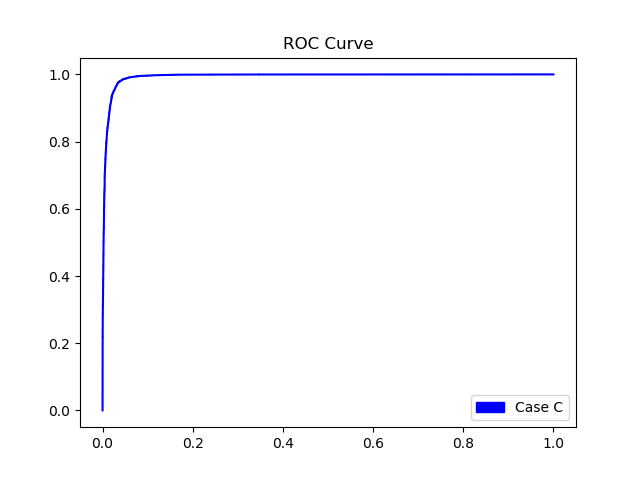
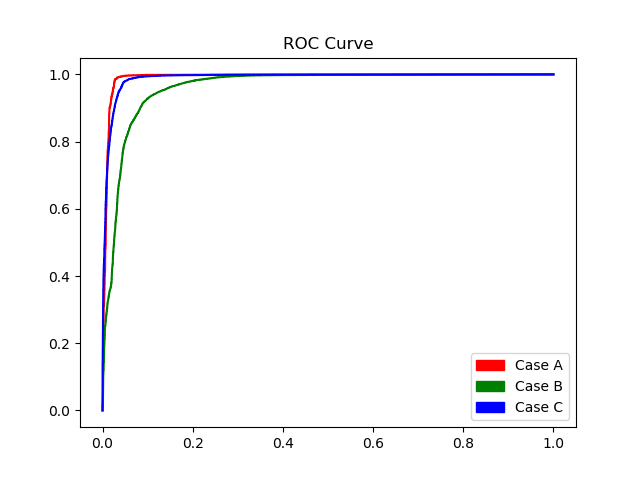
Code fix.

Changed region(s): [[0.1562, 0.125, 0.4688, 0.75], [0.7188, 0.7188, 0.9062, 0.8438]]

diff --git a/MNIST project/train_models.py b/MNIST project/train_models.py
@@ -73,6 +73,7 @@ def contrastive_loss(y_true, y_pred):
     return K.mean(y_true * sqaure_pred + (1 - y_true) * margin_square)
 
 def transform_image(image_1, image_2):
+    
     transformations = {}
     # Calculating transformation
     if np.random.uniform(low=0, high=1) < 0.5:
@@ -93,7 +94,7 @@ def transform_image(image_1, image_2):
     if np.random.uniform(low=0, high=1) < 0.5:
         shear = np.random.uniform(low=shear_range[0], high=shear_range[1])
         transformations['shear'] = shear
-    
+        
     image_1 = np.expand_dims(image_1, axis=-1)
     image_2 = np.expand_dims(image_2, axis=-1)
     image_1 = image_transformer.apply_transform(image_1, transformations)
@@ -150,6 +151,28 @@ def create_base_network(input_shape):
 
     return Model(input, x)
 
+def creatе_model():
+    # Network definition
+    base_network = create_base_network(input_shape)
+
+    input_a = Input(shape=input_shape)
+    input_b = Input(shape=input_shape)
+
+    # because we re-use the same instance `base_network`,
+    # the weights of the network
+    # will be shared across the two branches
+    processed_a = base_network(input_a)
+    processed_b = base_network(input_b)
+
+    distance = Lambda(euclidean_distance,
+                    output_shape=eucl_dist_output_shape, name='lambda')([processed_a, processed_b])
+
+    model = Model([input_a, input_b], distance)
+    rms = RMSprop()
+    model.compile(loss=contrastive_loss, optimizer=rms, metrics=['accuracy'])
+
+    return model
+
 
 def compute_accuracy(y_true, y_pred):
     '''Compute classification accuracy with a fixed threshold on distances.
@@ -157,19 +180,18 @@ def compute_accuracy(y_true, y_pred):
     pred = y_pred.ravel() < 0.5
     return np.mean(pred == y_true)
 
-def get_training_data():
+def get_data():
     (x_train, y_train), (x_test, y_test) = mnist.load_data()
 
     x_train = x_train.astype('float32')
     x_test = x_test.astype('float32')
     x_train /= 255
     x_test /= 255
-
     return (x_train, y_train), (x_test, y_test)
 
-def prepare_data_for_training(transformations):
+def prepare_data_for_work(transformations):
 
-    (x_train, y_train), (x_test, y_test) = get_training_data()
+    (x_train, y_train), (x_test, y_test) = get_data()
 
     # Create training+test positive and negative pairs
     digit_indices = [np.where(y_train == i)[0] for i in range(num_classes)]
@@ -194,32 +216,12 @@ def compute_final_accuracy(model, tr_pairs, tr_y, te_pairs, te_y):
 
 def train_model(model_dir, transformations=False):
     
-    (tr_pairs, tr_y), (te_pairs, te_y) = prepare_data_for_training(transformations)
+    (tr_pairs, tr_y), (te_pairs, te_y) = prepare_data_for_work(transformations)
 
-    # Network definition
-    base_network = create_base_network(input_shape)
+    model = creatе_model()
 
-    input_a = Input(shape=input_shape)
-    input_b = Input(shape=input_shape)
-
-    # because we re-use the same instance `base_network`,
-    # the weights of the network
-    # will be shared across the two branches
-    processed_a = base_network(input_a)
-    processed_b = base_network(input_b)
-
-    distance = Lambda(euclidean_distance,
-                    output_shape=eucl_dist_output_shape, name='lambda')([processed_a, processed_b])
-
-    model = Model([input_a, input_b], distance)
-
-    # Train
-    rms = RMSprop()
-    model.compile(loss=contrastive_loss, optimizer=rms, metrics=[accuracy])
-    model.fit([tr_pairs[:, 0], tr_pairs[:, 1]], tr_y,
-            batch_size=batch_size,
-            epochs=epochs,
-            validation_data=([te_pairs[:, 0], te_pairs[:, 1]], te_y))
+    model.fit([tr_pairs[:, 0], tr_pairs[:, 1]], tr_y, batch_size=batch_size,
+            epochs=epochs, validation_data=([te_pairs[:, 0], te_pairs[:, 1]], te_y))
 
     compute_final_accuracy(model, tr_pairs, tr_y, te_pairs, te_y)
 
@@ -233,9 +235,10 @@ if __name__ == "__main__":
     if not exists(model_dir):
         makedirs(model_dir)
     
+    # Training model without transformations
     model = train_model(model_dir)
     model.save(join(model_dir, 'siamese_model.h5'))
     
-    # Training model with transformation
+    # Training model with transformations
     model = train_model(model_dir, True)
     model.save(join(model_dir, 'siamese_model_transformations.h5'))

diff --git a/MNIST project/get_plots.py b/MNIST project/get_plots.py
@@ -1,15 +1,28 @@
 import pandas as pd
 import umap
+import sklearn
 from os.path import join
 import matplotlib.pyplot as plt
 import matplotlib
 import matplotlib.patches as mpatches
+from train_models import prepare_data_for_work, create_pairs, contrastive_loss
+from tensorflow.keras.models import load_model
+import numpy as np
 
 classes_dict = {'tp':'True positives', 'fn':'False negatives', 'tn':'True negatives', 'fp':'False positives',
                 'tp_low':'True positives (low)', 'fn_low':'False negatives (low)', 'tn_low':'True negatives (low)', 'fp_low':'False positives (low)',
                 'tp_high':'True positives (high)', 'fn_high':'False negatives (high)', 'tn_high':'True negatives (high)', 'fp_high':'False positives (high)'}
 colors = ['red','green','blue','purple']
 colors_detailed = ['red','green','blue','purple', 'pink', 'orange', 'brown', 'turquoise']
+
+shape = (28, 28)
+num_classes = 10
+rotation_range = [-10, 10]
+shear_range = [-12, 12]
+scale_range = [0.9, 1.2]
+shift_range = [-2, 2]
+model_wo_tf = './test_models/siamese_model.h5'
+model_w_tf = './test_models/siamese_model_transformations.h5'
 
 def plot(directory, title):
     meta = 'metadata.tsv'
@@ -52,8 +65,58 @@ def plot(directory, title):
     plt.clf()
     plt.close()
 
+def get_roc_and_auc_curves():
+
+
+    print('Case A')
+    # First test case, training without transformations, testing without transformations
+    (_, _), (te_pairs, te_y) = prepare_data_for_work(False)
+    model = load_model(model_wo_tf, custom_objects={'contrastive_loss': contrastive_loss})
+    
+    y_pred = model.predict([te_pairs[:, 0], te_pairs[:, 1]])
+    y_pred = np.array(y_pred)
+    y_pred = np.flip(y_pred)
+    fpr, tpr, thresholds = sklearn.metrics.roc_curve(te_y, y_pred)
+    auc = sklearn.metrics.roc_auc_score(te_y.flatten(), y_pred.flatten())
+    
+    print('Case B')
+    # Second test case, training without transformations, testing with transformations
+    (_, _), (te_pairs, te_y) = prepare_data_for_work(True)
+    y_pred = model.predict([te_pairs[:, 0], te_pairs[:, 1]])
+    y_pred = np.array(y_pred)
+    y_pred = np.flip(y_pred)
+    fpr_te_tf, tpr_te_tf, _ = sklearn.metrics.roc_curve(te_y.flatten(), y_pred.flatten())
+    auc_te_tf = sklearn.metrics.roc_auc_score(te_y.flatten(), y_pred.flatten())
+
+    print('Case C')
+    # Third test case, training with transformations, testing with transformations
+    model = load_model(model_w_tf, custom_objects={'contrastive_loss': contrastive_loss})
+    (_, _), (te_pairs, te_y) = prepare_data_for_work(True)
+    y_pred = model.predict([te_pairs[:, 0], te_pairs[:, 1]])
+    y_pred = np.array(y_pred)
+    y_pred = np.flip(y_pred)
+    fpr_tf_te_tf, tpr_tf_te_tf, _ = sklearn.metrics.roc_curve(te_y.flatten(), y_pred.flatten())
+    auc_tf_te_tf = sklearn.metrics.roc_auc_score(te_y.flatten(), y_pred.flatten())
+
+    print('AUC for \'Training without transformations, testing without transformations\': '+ str(auc))
+    print('AUC for \'Training without transformations, testing with transformations\': '+ str(auc_te_tf))
+    print('AUC for \'Training with transformations, testing with transformations\': '+ str(auc_tf_te_tf))
+    plt.title('ROC Curve')
+    patches = []
+    patches.append(mpatches.Patch(color='r', label='Case A'))
+    patches.append(mpatches.Patch(color='g', label='Case B'))
+    patches.append(mpatches.Patch(color='b', label='Case C'))
+    plt.legend(handles=patches)
+    plt.plot(fpr, tpr, 'r')
+    plt.plot(fpr_te_tf, tpr_te_tf, 'g')
+    plt.plot(fpr_tf_te_tf, tpr_tf_te_tf, 'b')
+    plt.savefig('roc.png')
+    plt.show()
+
 
 if __name__ == '__main__':
+    get_roc_and_auc_curves()
+
     plot('./data/model_w_tf_te', 'Training with transformations, testing without transformations')
     plot('./data/model_w_tf_te_tf', 'Training with transformations, testing with transformations')
     plot('./data/model_wo_tf_te', 'Training without transformations, testing without transformations')

diff --git a/MNIST project/identifying_images.py b/MNIST project/identifying_images.py
@@ -7,7 +7,6 @@ import tensorflow.keras.backend as K
 import pickle
 from os.path import exists, join
 from os import makedirs
-from tensorflow.keras.preprocessing.image import ImageDataGenerator
 from train_models import transform_image, contrastive_loss, compute_accuracy
 
 num_classes = 10
@@ -16,8 +15,6 @@ shear_range = [-12, 12]
 scale_range = [0.9, 1.2]
 shift_range = [-2, 2]
 
-use_model_with_transformations = False
-model_without_transformations = './test_models/siamese_model.h5'
 model_location = './test_models/'
 plot_location_tp_fn = './figures_tp_fn/'
 digits_location_tp_fn = './digits_tp_fn/'
@@ -45,7 +42,6 @@ def create_negative_pairs(x, digit_indices, nums=[], test_with_transformations=F
     pairs = []
     labels = []
     indices = []
-    transformer = ImageDataGenerator()
     n = min([len(digit_indices[d]) for d in range(num_classes)]) - 1
     for d in range(10):
         indices.append(len(pairs))
@@ -79,6 +75,10 @@ def create_negative_pairs(x, digit_indices, nums=[], test_with_transformations=F
     return np.array(pairs), np.array(labels), np.array(indices)
 
 def place_in_array(array, dig_idx, index):
+    print(dig_idx)
+    print(type(dig_idx))
+    print(dig_idx.shape)
+    print(bruh_moment)
     for j in range(len(dig_idx)):
         if j == 9:
             array[9].append(index)
@@ -89,7 +89,7 @@ def place_in_array(array, dig_idx, index):
 
 def print_pairs(digit_list, full_path, pairs):
     j = 0
-    while j < len(digit_list) and j <= 9:
+    while j < len(digit_list) and j <= 5:
         if not exists(full_path):
             makedirs(full_path)
         plt.figure(j)
@@ -263,15 +263,15 @@ def sort_low_and_high_examples_into_arrays(predictions, dig_idx):
 
 if __name__ == "__main__":
 
-    '''
+    
     model = load_model(join(model_location, 'siamese_model_transformations.h5'), custom_objects={'contrastive_loss': contrastive_loss})
     test_tp_fn(model, './data/model_w_tf_te/' + plot_location_tp_fn, './data/model_w_tf_te/', False)
     test_tn_fp(model, './data/model_w_tf_te/' + plot_location_tn_fp, './data/model_w_tf_te/', False)
-    '''
+    
     model = load_model(join(model_location, 'siamese_model_transformations.h5'), custom_objects={'contrastive_loss': contrastive_loss})
-    #test_tp_fn(model, './data/model_w_tf_te_tf/' + plot_location_tp_fn, './data/model_w_tf_te_tf/', True)
+    test_tp_fn(model, './data/model_w_tf_te_tf/' + plot_location_tp_fn, './data/model_w_tf_te_tf/', True)
     test_tn_fp(model, './data/model_w_tf_te_tf/' + plot_location_tn_fp, './data/model_w_tf_te_tf/', True)
-    '''
+    
     model = load_model(join(model_location, 'siamese_model.h5'), custom_objects={'contrastive_loss': contrastive_loss})
     test_tp_fn(model, './data/model_wo_tf_te/' + plot_location_tp_fn, './data/model_wo_tf_te/', False)
     test_tn_fp(model, './data/model_wo_tf_te/' + plot_location_tn_fp, './data/model_wo_tf_te/', False)
@@ -279,4 +279,4 @@ if __name__ == "__main__":
     model = load_model(join(model_location, 'siamese_model.h5'), custom_objects={'contrastive_loss': contrastive_loss})
     test_tp_fn(model, './data/model_wo_tf_te_tf/' + plot_location_tp_fn, './data/model_wo_tf_te_tf/', True)
     test_tn_fp(model, './data/model_wo_tf_te_tf/' + plot_location_tn_fp, './data/model_wo_tf_te_tf/', True)
-    '''
+    

diff --git a/MNIST project/projecting_4.py b/MNIST project/projecting_4.py
@@ -16,7 +16,8 @@ num_classes = 10
 use_transformed_model = False
 testing_with_transformations = True
 input_shape = (28, 28)
-test_cases = [('./data/model_w_tf_te', './test_models/siamese_model_transformations.h5'), ('./data/model_w_tf_te_tf', './test_models/siamese_model_transformations.h5')]
+test_cases = [('./data/model_w_tf_te', './test_models/siamese_model_transformations.h5'), ('./data/model_w_tf_te_tf', './test_models/siamese_model_transformations.h5'),
+                ('./data/model_wo_tf_te', './test_models/siamese_model.h5'), ('./data/model_wo_tf_te_tf', './test_models/siamese_model.h5')]
 
 def create_subset(pairs, indices):
     ret = []
